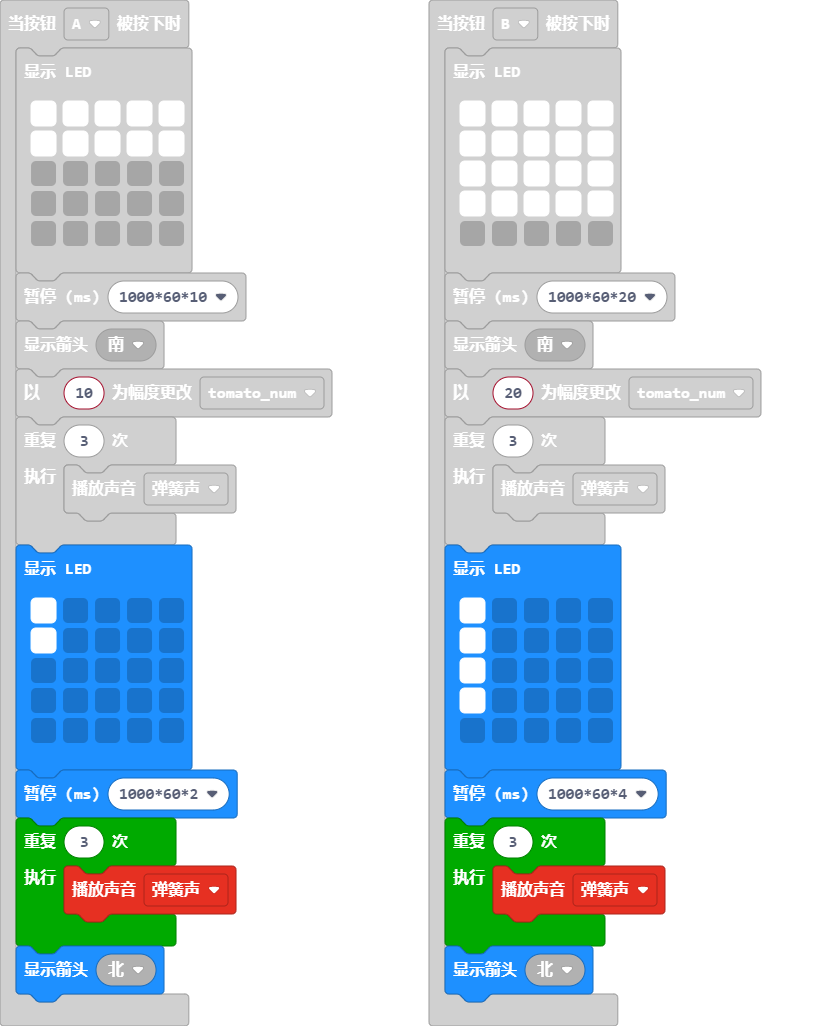
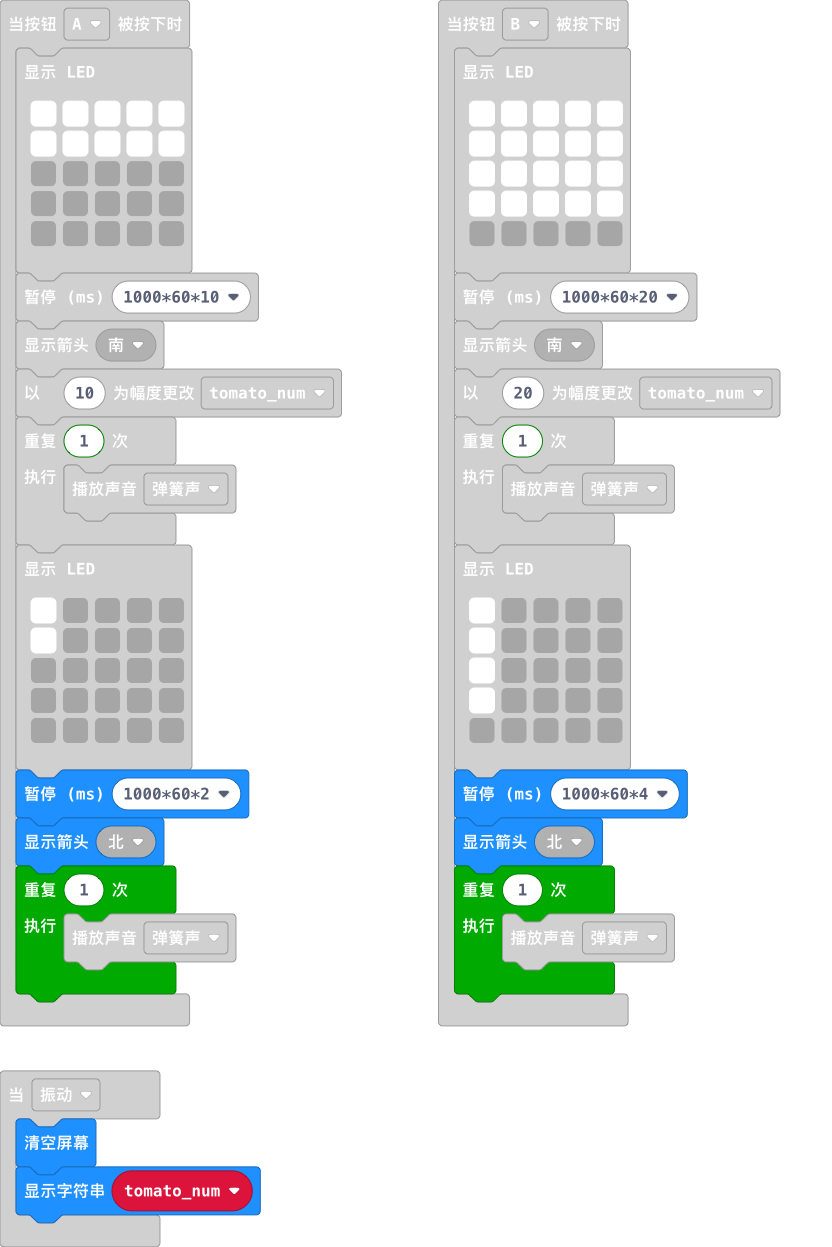
响一次

diff --git a/main.ts b/main.ts
@@ -12,7 +12,7 @@ input.onButtonPressed(Button.A, function () {
     basic.pause(1000*60*10)
     basic.showArrow(ArrowNames.South)
     tomato_num += 10
-    for (let index = 0; index < 3; index++) {
+    for (let index = 0; index < 1; index++) {
         soundExpression.spring.play()
     }
     basic.showLeds(`
@@ -23,12 +23,13 @@ input.onButtonPressed(Button.A, function () {
         . . . . .
         `)
     basic.pause(1000*60*2)
-    for (let index = 0; index < 3; index++) {
+    basic.showArrow(ArrowNames.North)
+    for (let index = 0; index < 1; index++) {
         soundExpression.spring.play()
     }
-    basic.showArrow(ArrowNames.North)
 })
 input.onGesture(Gesture.Shake, function () {
+    basic.clearScreen()
     basic.showString("" + (tomato_num))
 })
 input.onButtonPressed(Button.AB, function () {
@@ -45,7 +46,7 @@ input.onButtonPressed(Button.B, function () {
     basic.pause(1000*60*20)
     basic.showArrow(ArrowNames.South)
     tomato_num += 20
-    for (let index = 0; index < 3; index++) {
+    for (let index = 0; index < 1; index++) {
         soundExpression.spring.play()
     }
     basic.showLeds(`
@@ -56,10 +57,10 @@ input.onButtonPressed(Button.B, function () {
         . . . . .
         `)
     basic.pause(1000*60*4)
-    for (let index = 0; index < 3; index++) {
+    basic.showArrow(ArrowNames.North)
+    for (let index = 0; index < 1; index++) {
         soundExpression.spring.play()
     }
-    basic.showArrow(ArrowNames.North)
 })
 let tomato_num = 0
 tomato_num = 0
